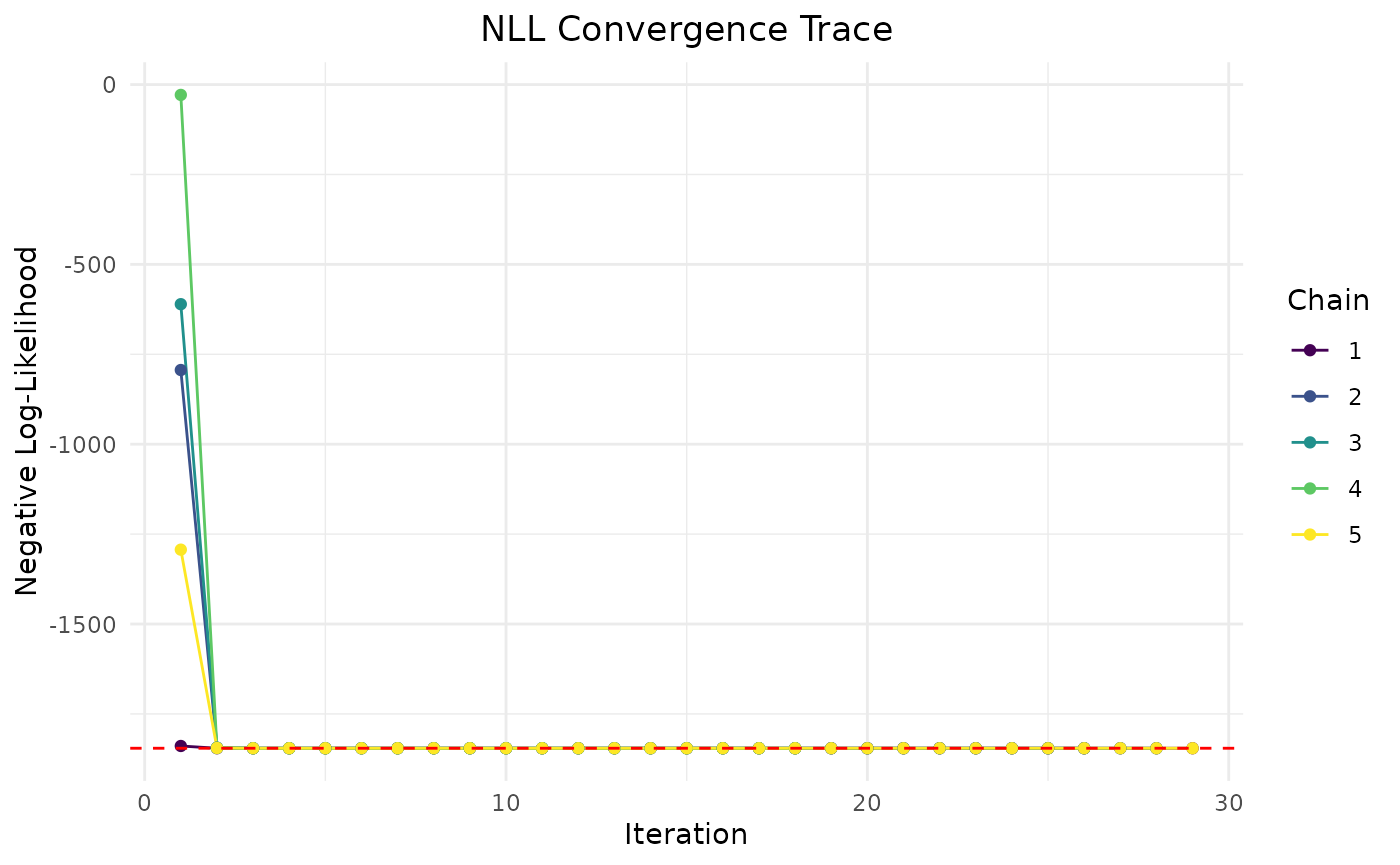
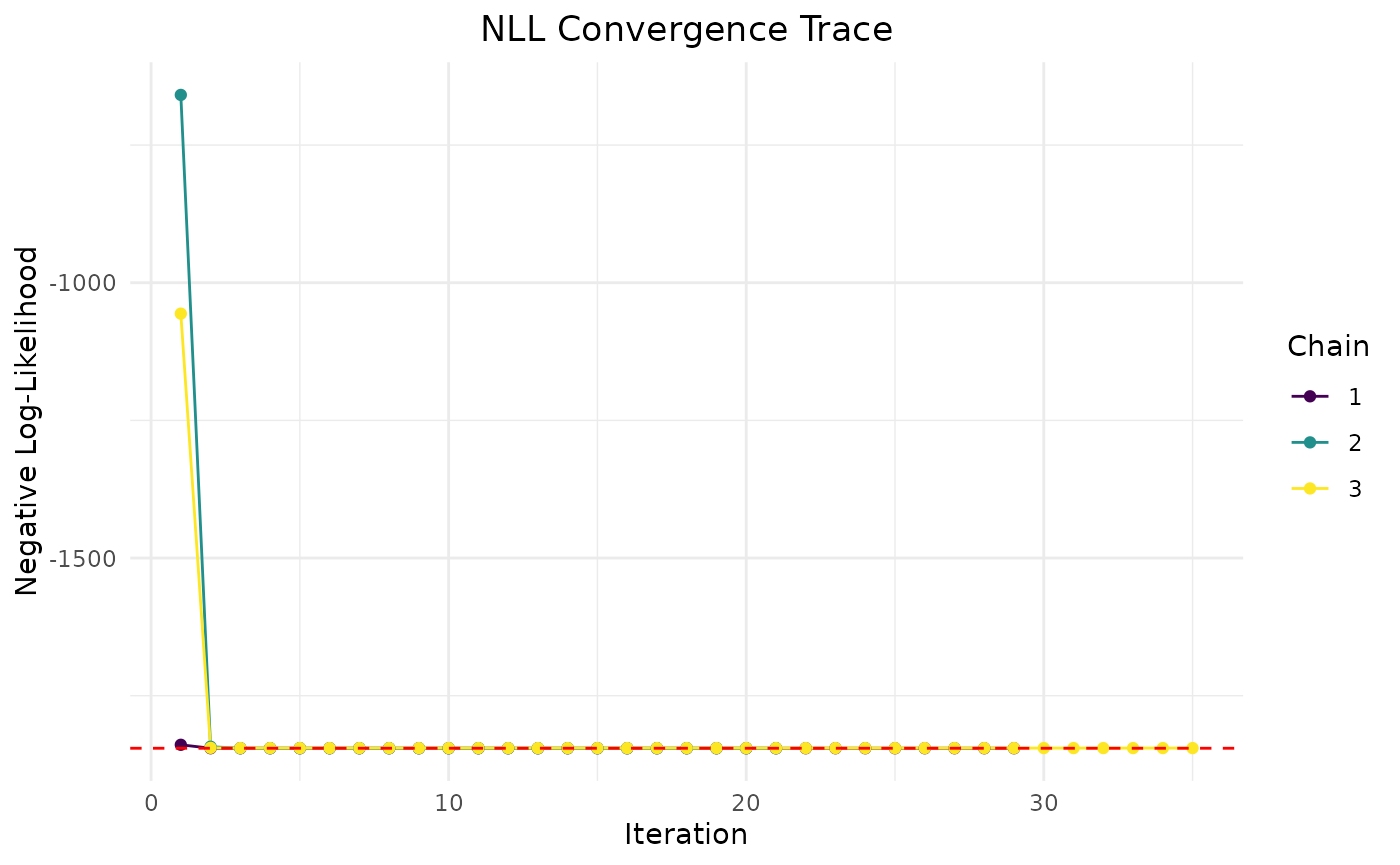
Deploying to gh-pages from @ hiddevandebeek/admr@1d16e47f8b5c1449645c28cb8d4dd878b14f6505 🚀

diff --git a/articles/admr.html b/articles/admr.html
@@ -193,9 +193,7 @@ function is the g function for the two-compartment model.</p>
 <span><span class="op">}</span></span></code></pre></div>
 <p>This opts object contains the options for the <code>admr</code>
 package. The <code>genopts</code> function generates the options object.
-IT</p>
-<p>The <code>fitEM</code> function fits the model to the dataset. Here
-the parameters are:</p>
+Here the parameters are:</p>
 <ol style="list-style-type: decimal">
 <li>time:
 <ul>
@@ -281,31 +279,33 @@ individual parameters.</p></li>
 <span>                  Omega<span class="op">=</span><span class="fu"><a href="../reference/omegas.html">omegas</a></span><span class="op">(</span><span class="fl">.09</span>,<span class="fl">0</span>,<span class="fl">5</span><span class="op">)</span>,Sigma_prop<span class="op">=</span><span class="fl">0.04</span><span class="op">)</span>,</span>
 <span>                  nsim<span class="op">=</span><span class="fl">2500</span>,n<span class="op">=</span><span class="fl">500</span>,adist<span class="op">=</span><span class="cn">NULL</span>,</span>
 <span>                  interact<span class="op">=</span><span class="cn">F</span>,fo_appr<span class="op">=</span><span class="cn">F</span>,biseq<span class="op">=</span><span class="cn">NA</span>,omega_expansion<span class="op">=</span><span class="fl">2</span>,</span>
-<span>                  f<span class="op">=</span><span class="va">predder</span><span class="op">)</span></span>
-<span></span>
-<span><span class="va">fit</span> <span class="op">&lt;-</span> <span class="fu"><a href="../reference/fitEM.html">fitEM</a></span><span class="op">(</span><span class="va">opts</span>, <span class="va">examplomycin_aggregated</span>, chains <span class="op">=</span> <span class="fl">5</span><span class="op">)</span></span>
+<span>                  f<span class="op">=</span><span class="va">predder</span><span class="op">)</span></span></code></pre></div>
+<p>The <code>fitEM</code> function fits the model to the dataset. It
+takes the following arguments:</p>
+<div class="sourceCode" id="cb8"><pre class="downlit sourceCode r">
+<code class="sourceCode R"><span><span class="va">fit</span> <span class="op">&lt;-</span> <span class="fu"><a href="../reference/fitEM.html">fitEM</a></span><span class="op">(</span><span class="va">opts</span>, <span class="va">examplomycin_aggregated</span>, chains <span class="op">=</span> <span class="fl">3</span><span class="op">)</span></span>
 <span><span class="co">#&gt; Chain 1:</span></span>
 <span><span class="co">#&gt; Iter | NLL and Parameters (11 values)</span></span>
 <span><span class="co">#&gt; --------------------------------------------------------------------------------</span></span>
 <span><span class="co">#&gt;    1: -1839.160    1.609    2.303    3.401    2.303    0.000   -2.408   -2.408   -2.408   -2.408   -2.408   -3.219</span></span>
 <span><span class="co">#&gt; </span></span>
-<span><span class="co">#&gt; ### Exploration Phase ###</span></span>
+<span><span class="co">#&gt; ### Wide Search Phase ###</span></span>
 <span><span class="co">#&gt;    2: -1845.442    1.599    2.309    3.402    2.284    0.019   -2.286   -2.239   -2.356   -2.279   -2.353   -3.234</span></span>
 <span><span class="co">#&gt;    3: -1845.447    1.599    2.311    3.401    2.283    0.021   -2.284   -2.235   -2.360   -2.272   -2.351   -3.234</span></span>
 <span><span class="co">#&gt;    4: -1845.446    1.599    2.311    3.401    2.283    0.021   -2.284   -2.235   -2.360   -2.273   -2.351   -3.234</span></span>
 <span><span class="co">#&gt;    5: -1845.445    1.599    2.313    3.401    2.284    0.023   -2.284   -2.236   -2.358   -2.268   -2.350   -3.235</span></span>
 <span><span class="co">#&gt;    6: -1845.444    1.599    2.314    3.401    2.284    0.023   -2.284   -2.238   -2.357   -2.269   -2.347   -3.235</span></span>
 <span><span class="co">#&gt;    7: -1845.444    1.599    2.314    3.401    2.284    0.023   -2.284   -2.238   -2.357   -2.269   -2.347   -3.234</span></span>
-<span><span class="co">#&gt; Phase Exploration Phase converged at iteration 7. </span></span>
+<span><span class="co">#&gt; Phase Wide Search Phase converged at iteration 7.</span></span>
 <span><span class="co">#&gt; </span></span>
-<span><span class="co">#&gt; ### Refinement Phase ###</span></span>
+<span><span class="co">#&gt; ### Focussed Search Phase ###</span></span>
 <span><span class="co">#&gt;    8: -1845.443    1.599    2.314    3.400    2.284    0.023   -2.284   -2.241   -2.357   -2.269   -2.344   -3.235</span></span>
 <span><span class="co">#&gt;    9: -1845.443    1.599    2.314    3.400    2.284    0.023   -2.284   -2.241   -2.358   -2.269   -2.344   -3.235</span></span>
 <span><span class="co">#&gt;   10: -1845.443    1.599    2.314    3.400    2.284    0.023   -2.284   -2.241   -2.358   -2.269   -2.344   -3.235</span></span>
 <span><span class="co">#&gt;   11: -1845.443    1.599    2.314    3.400    2.284    0.023   -2.284   -2.241   -2.357   -2.269   -2.344   -3.235</span></span>
-<span><span class="co">#&gt; Phase Refinement Phase converged at iteration 11. </span></span>
+<span><span class="co">#&gt; Phase Focussed Search Phase converged at iteration 11.</span></span>
 <span><span class="co">#&gt; </span></span>
-<span><span class="co">#&gt; ### Final Phase ###</span></span>
+<span><span class="co">#&gt; ### Fine-Tuning Phase ###</span></span>
 <span><span class="co">#&gt;   12: -1845.446    1.599    2.312    3.401    2.284    0.022   -2.284   -2.238   -2.358   -2.271   -2.348   -3.234</span></span>
 <span><span class="co">#&gt;   13: -1845.445    1.599    2.312    3.401    2.284    0.022   -2.284   -2.238   -2.357   -2.271   -2.348   -3.235</span></span>
 <span><span class="co">#&gt;   14: -1845.444    1.599    2.313    3.401    2.284    0.023   -2.284   -2.240   -2.357   -2.270   -2.345   -3.234</span></span>
@@ -314,9 +314,9 @@ individual parameters.</p></li>
 <span><span class="co">#&gt;   17: -1845.443    1.599    2.314    3.401    2.284    0.023   -2.284   -2.240   -2.357   -2.269   -2.345   -3.235</span></span>
 <span><span class="co">#&gt;   18: -1845.443    1.599    2.314    3.401    2.284    0.023   -2.284   -2.240   -2.357   -2.269   -2.345   -3.235</span></span>
 <span><span class="co">#&gt;   19: -1845.443    1.599    2.314    3.401    2.284    0.023   -2.284   -2.240   -2.358   -2.269   -2.345   -3.235</span></span>
-<span><span class="co">#&gt; Phase Final Phase converged at iteration 19. </span></span>
+<span><span class="co">#&gt; Phase Fine-Tuning Phase converged at iteration 19.</span></span>
 <span><span class="co">#&gt; </span></span>
-<span><span class="co">#&gt; ### Final Phase 2 ###</span></span>
+<span><span class="co">#&gt; ### Precision Phase ###</span></span>
 <span><span class="co">#&gt;   20: -1845.445    1.599    2.311    3.401    2.283    0.021   -2.284   -2.240   -2.356   -2.272   -2.346   -3.235</span></span>
 <span><span class="co">#&gt;   21: -1845.445    1.599    2.312    3.401    2.283    0.021   -2.284   -2.240   -2.358   -2.272   -2.346   -3.234</span></span>
 <span><span class="co">#&gt;   22: -1845.445    1.599    2.312    3.401    2.283    0.021   -2.284   -2.240   -2.358   -2.271   -2.346   -3.234</span></span>
@@ -328,36 +328,22 @@ individual parameters.</p></li>
 <span><span class="co">#&gt;   28: -1845.445    1.599    2.312    3.401    2.284    0.022   -2.284   -2.239   -2.357   -2.270   -2.346   -3.235</span></span>
 <span><span class="co">#&gt;   29: -1845.445    1.599    2.312    3.401    2.284    0.022   -2.284   -2.239   -2.357   -2.270   -2.346   -3.235</span></span>
 <span><span class="co">#&gt; </span></span>
-<span><span class="co">#&gt; Chain 1 Complete: Final NLL = -1845.447, Time Elapsed = 6.38 seconds</span></span>
+<span><span class="co">#&gt; Chain 1 Complete: Final NLL = -1845.447, Time Elapsed = 6.22 seconds</span></span>
 <span><span class="co">#&gt;  </span></span>
-<span><span class="co">#&gt; Phase Exploration Phase converged at iteration 13. </span></span>
-<span><span class="co">#&gt; Phase Refinement Phase converged at iteration 17. </span></span>
-<span><span class="co">#&gt; Phase Final Phase converged at iteration 18. </span></span>
-<span><span class="co">#&gt; Phase Final Phase 2 converged at iteration 21. </span></span>
+<span><span class="co">#&gt; Phase Wide Search Phase converged at iteration 13.</span></span>
+<span><span class="co">#&gt; Phase Focussed Search Phase converged at iteration 17.</span></span>
+<span><span class="co">#&gt; Phase Fine-Tuning Phase converged at iteration 18.</span></span>
+<span><span class="co">#&gt; Phase Precision Phase converged at iteration 21.</span></span>
 <span><span class="co">#&gt; </span></span>
-<span><span class="co">#&gt; Chain 2 Complete: Final NLL = -1845.442, Time Elapsed = 6.22 seconds</span></span>
+<span><span class="co">#&gt; Chain 2 Complete: Final NLL = -1845.442, Time Elapsed = 6.06 seconds</span></span>
 <span><span class="co">#&gt;  </span></span>
-<span><span class="co">#&gt; Phase Exploration Phase converged at iteration 10. </span></span>
-<span><span class="co">#&gt; Phase Final Phase 2 converged at iteration 35. </span></span>
+<span><span class="co">#&gt; Phase Wide Search Phase converged at iteration 10.</span></span>
+<span><span class="co">#&gt; Phase Precision Phase converged at iteration 35.</span></span>
 <span><span class="co">#&gt; </span></span>
-<span><span class="co">#&gt; Chain 3 Complete: Final NLL = -1845.154, Time Elapsed = 8.48 seconds</span></span>
-<span><span class="co">#&gt;  </span></span>
-<span><span class="co">#&gt; Phase Exploration Phase converged at iteration 16. </span></span>
-<span><span class="co">#&gt; Phase Refinement Phase converged at iteration 19. </span></span>
-<span><span class="co">#&gt; Phase Final Phase converged at iteration 24. </span></span>
-<span><span class="co">#&gt; Phase Final Phase 2 converged at iteration 32. </span></span>
-<span><span class="co">#&gt; </span></span>
-<span><span class="co">#&gt; Chain 4 Complete: Final NLL = -1845.442, Time Elapsed = 7.06 seconds</span></span>
-<span><span class="co">#&gt;  </span></span>
-<span><span class="co">#&gt; Phase Exploration Phase converged at iteration 8. </span></span>
-<span><span class="co">#&gt; Phase Refinement Phase converged at iteration 10. </span></span>
-<span><span class="co">#&gt; Phase Final Phase converged at iteration 27. </span></span>
-<span><span class="co">#&gt; Phase Final Phase 2 converged at iteration 31. </span></span>
-<span><span class="co">#&gt; </span></span>
-<span><span class="co">#&gt; Chain 5 Complete: Final NLL = -1845.443, Time Elapsed = 7.26 seconds</span></span>
+<span><span class="co">#&gt; Chain 3 Complete: Final NLL = -1845.154, Time Elapsed = 8.57 seconds</span></span>
 <span><span class="co">#&gt; </span></span></code></pre></div>
 <p>This is the output of the <code>fitEM</code> function.</p>
-<div class="sourceCode" id="cb8"><pre class="downlit sourceCode r">
+<div class="sourceCode" id="cb9"><pre class="downlit sourceCode r">
 <code class="sourceCode R"><span><span class="fu"><a href="https://rdrr.io/r/base/print.html" class="external-link">print</a></span><span class="op">(</span><span class="va">fit</span><span class="op">)</span></span>
 <span><span class="co">#&gt; -- FitEM Summary --</span></span>
 <span><span class="co">#&gt; </span></span>
@@ -369,20 +355,20 @@ individual parameters.</p></li>
 <span><span class="co">#&gt; Condition#(Cor): 225.75</span></span>
 <span><span class="co">#&gt; </span></span>
 <span><span class="co">#&gt; -- Timing Information --</span></span>
-<span><span class="co">#&gt;      Best Chain: 6.3799 seconds</span></span>
-<span><span class="co">#&gt;      All Chains: 35.3944 seconds</span></span>
-<span><span class="co">#&gt;      Covariance: 27.8998 seconds</span></span>
-<span><span class="co">#&gt;         Elapsed: 63.29 seconds</span></span>
+<span><span class="co">#&gt;      Best Chain: 6.2162 seconds</span></span>
+<span><span class="co">#&gt;      All Chains: 20.8472 seconds</span></span>
+<span><span class="co">#&gt;      Covariance: 27.1382 seconds</span></span>
+<span><span class="co">#&gt;         Elapsed: 47.99 seconds</span></span>
 <span><span class="co">#&gt; </span></span>
 <span><span class="co">#&gt; -- Population Parameters --</span></span>
 <span><span class="co">#&gt; <span style="color: #949494;"># A tibble: 6 × 6</span></span></span>
 <span><span class="co">#&gt;   Parameter        Est.      SE  `%RSE` `Back-transformed(95%CI)` `BSV(CV%)`</span></span>
 <span><span class="co">#&gt;   <span style="color: #949494; font-style: italic;">&lt;chr&gt;</span>           <span style="color: #949494; font-style: italic;">&lt;dbl&gt;</span>   <span style="color: #949494; font-style: italic;">&lt;dbl&gt;</span>   <span style="color: #949494; font-style: italic;">&lt;dbl&gt;</span> <span style="color: #949494; font-style: italic;">&lt;chr&gt;</span>                          <span style="color: #949494; font-style: italic;">&lt;dbl&gt;</span></span></span>
-<span><span class="co">#&gt; <span style="color: #BCBCBC;">1</span> cl             1.60    0.015<span style="text-decoration: underline;">2</span>   0.954 4.95 (4.80, 5.10)               31.9</span></span>
-<span><span class="co">#&gt; <span style="color: #BCBCBC;">2</span> v1             2.31    0.088<span style="text-decoration: underline;">1</span>   3.81  10.09 (8.49, 11.99)             32.7</span></span>
-<span><span class="co">#&gt; <span style="color: #BCBCBC;">3</span> v2             3.40    0.040<span style="text-decoration: underline;">4</span>   1.19  30.00 (27.72, 32.47)            30.7</span></span>
-<span><span class="co">#&gt; <span style="color: #BCBCBC;">4</span> q              2.28    0.021<span style="text-decoration: underline;">2</span>   0.928 9.81 (9.41, 10.23)              32.1</span></span>
-<span><span class="co">#&gt; <span style="color: #BCBCBC;">5</span> ka             0.020<span style="text-decoration: underline;">8</span>  0.083<span style="text-decoration: underline;">3</span> 401.    1.02 (0.87, 1.20)               30.9</span></span>
+<span><span class="co">#&gt; <span style="color: #BCBCBC;">1</span> cl             1.60    0.015<span style="text-decoration: underline;">2</span>   0.954 4.95 (4.80, 5.10)               32.7</span></span>
+<span><span class="co">#&gt; <span style="color: #BCBCBC;">2</span> v1             2.31    0.088<span style="text-decoration: underline;">1</span>   3.81  10.09 (8.49, 11.99)             33.6</span></span>
+<span><span class="co">#&gt; <span style="color: #BCBCBC;">3</span> v2             3.40    0.040<span style="text-decoration: underline;">4</span>   1.19  30.00 (27.72, 32.47)            31.5</span></span>
+<span><span class="co">#&gt; <span style="color: #BCBCBC;">4</span> q              2.28    0.021<span style="text-decoration: underline;">2</span>   0.928 9.81 (9.41, 10.23)              33.0</span></span>
+<span><span class="co">#&gt; <span style="color: #BCBCBC;">5</span> ka             0.020<span style="text-decoration: underline;">8</span>  0.083<span style="text-decoration: underline;">3</span> 401.    1.02 (0.87, 1.20)               31.6</span></span>
 <span><span class="co">#&gt; <span style="color: #BCBCBC;">6</span> Residual Error 0.039<span style="text-decoration: underline;">4</span> <span style="color: #BB0000;">NA</span>       <span style="color: #BB0000;">NA</span>     0.0394                          <span style="color: #BB0000;">NA</span>  </span></span>
 <span><span class="co">#&gt; </span></span>
 <span><span class="co">#&gt; -- Iteration Diagnostics --</span></span>
@@ -402,9 +388,9 @@ individual parameters.</p></li>
 <p>The <code>plot</code> function can be used to visualize the results.
 It shows the convergence of the model fit and parameters by making a
 trace plot of the chains.</p>
-<div class="sourceCode" id="cb9"><pre class="downlit sourceCode r">
+<div class="sourceCode" id="cb10"><pre class="downlit sourceCode r">
 <code class="sourceCode R"><span><span class="fu"><a href="https://rdrr.io/r/graphics/plot.default.html" class="external-link">plot</a></span><span class="op">(</span><span class="va">fit</span><span class="op">)</span></span></code></pre></div>
-<p><img src="admr_files/figure-html/unnamed-chunk-9-1.png" width="700"><img src="admr_files/figure-html/unnamed-chunk-9-2.png" width="700"></p>
+<p><img src="admr_files/figure-html/unnamed-chunk-10-1.png" width="700"><img src="admr_files/figure-html/unnamed-chunk-10-2.png" width="700"></p>
 </div>
 </div>
   </main><aside class="col-md-3"><nav id="toc" aria-label="Table of contents"><h2>On this page</h2>
